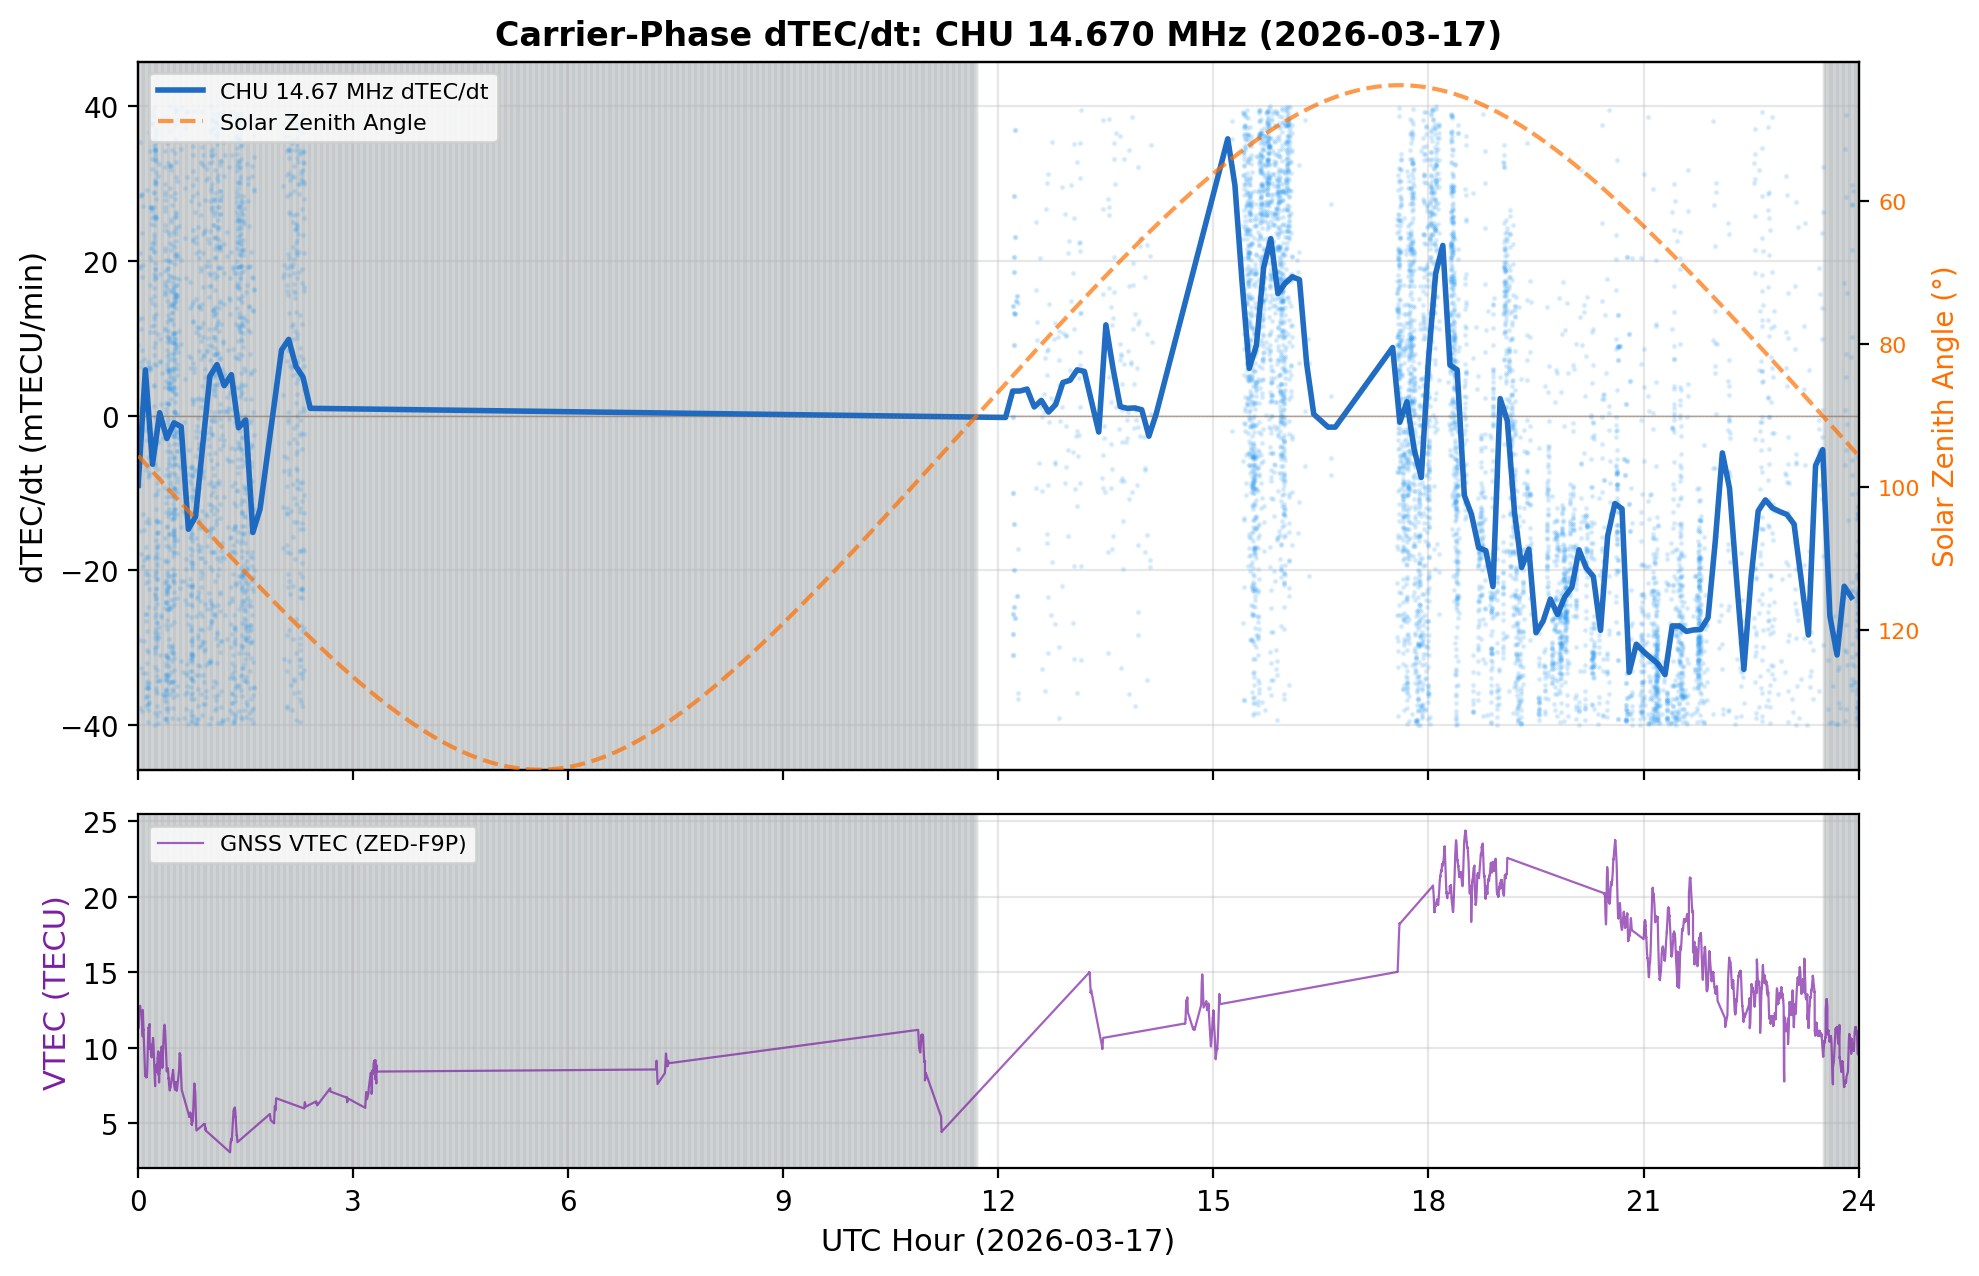
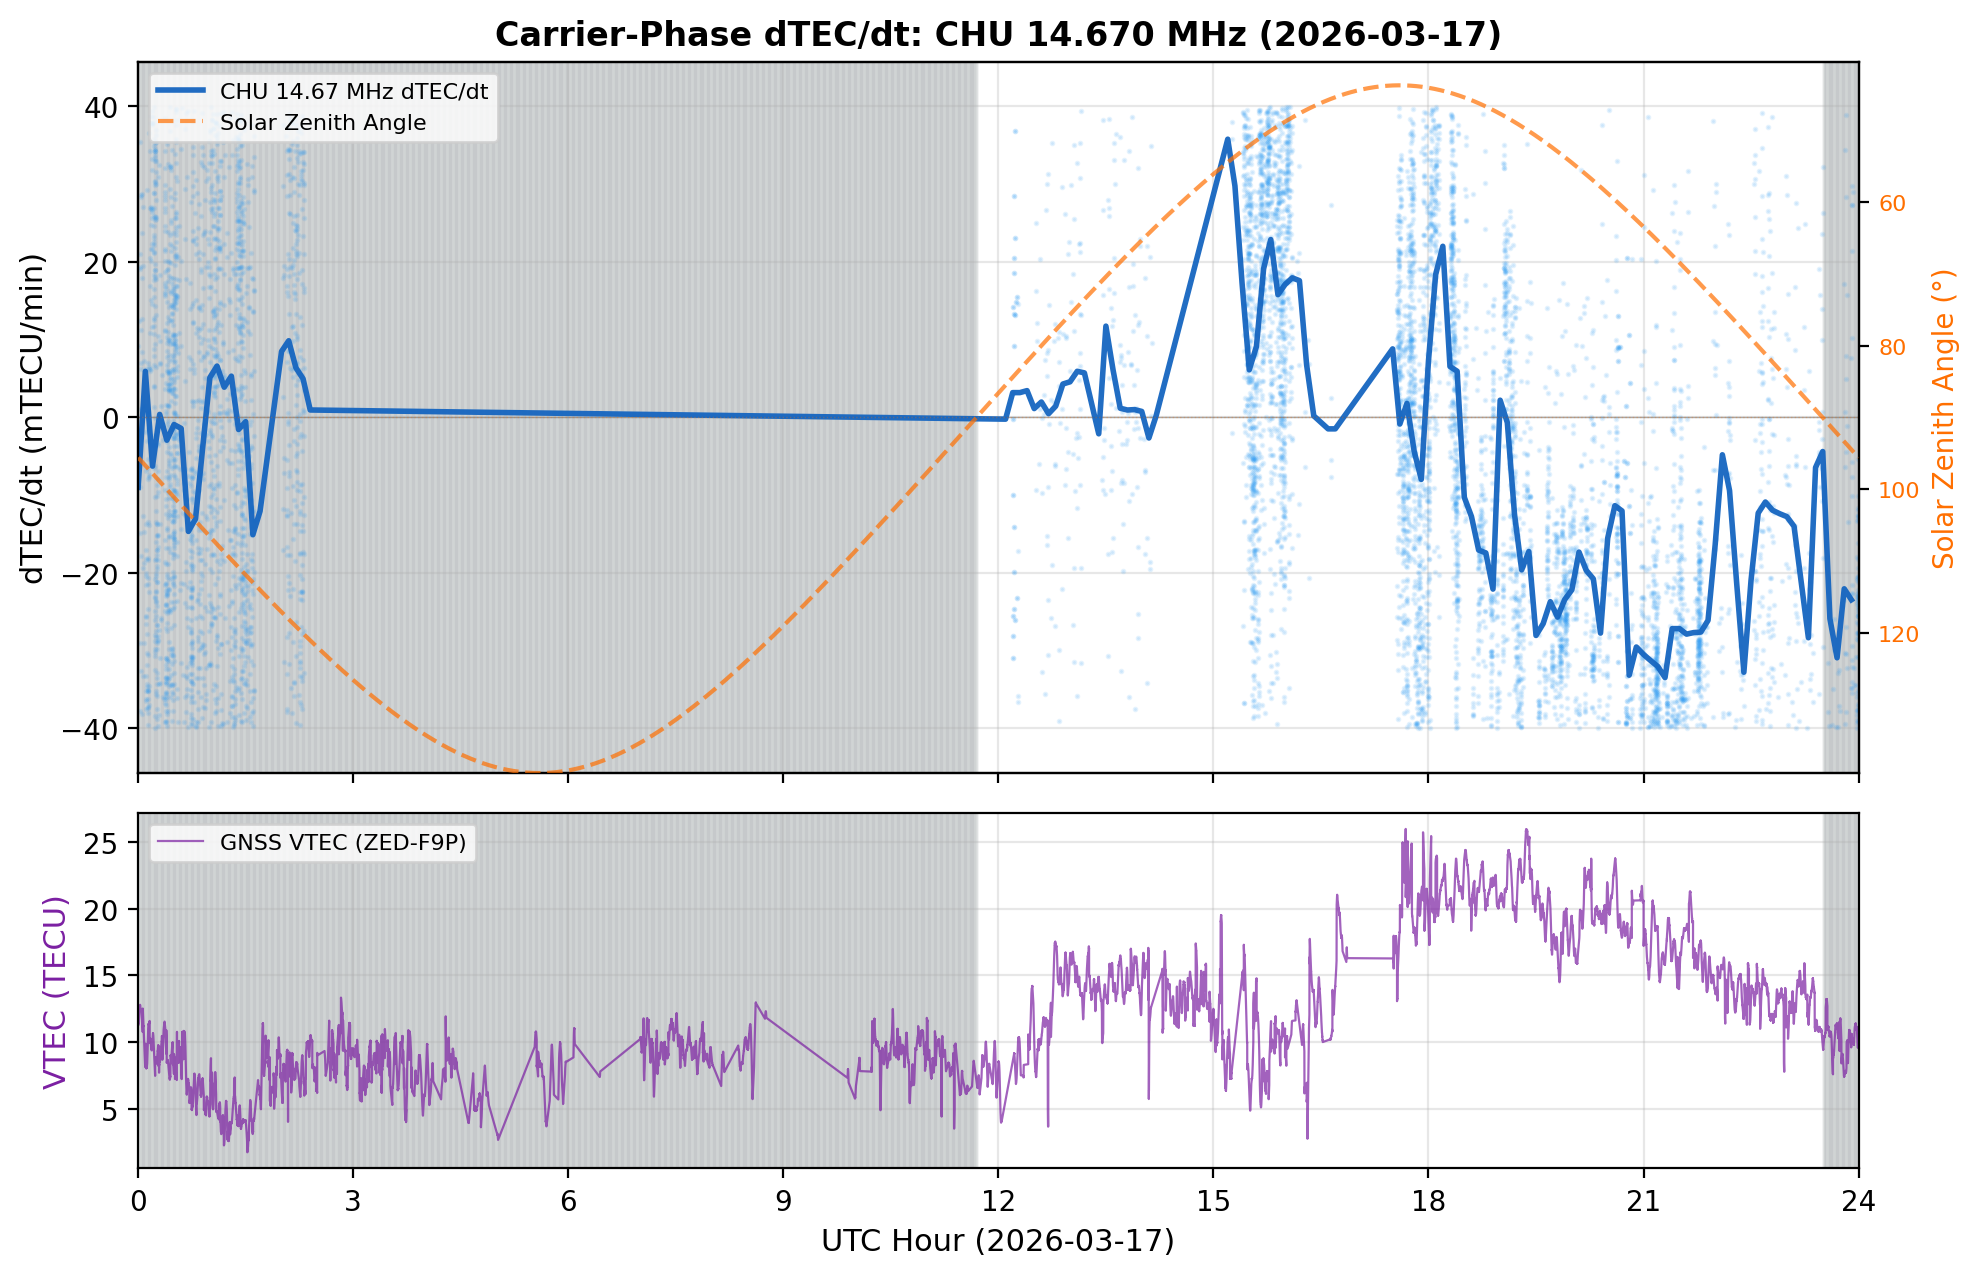
Fig 5: include MARGINAL GNSS VTEC (4-5 sats) to eliminate false gaps
GOOD-only filter (≥6 sats) rejected 75% of data, creating visual gaps
during hours with 3-5 visible satellites. MARGINAL agrees with GOOD to
within ~0.5 TECU where they overlap. Remaining minor gaps at 06/09 UTC
are BAD-only hours (1-3 sats).

diff --git a/docs/figures/generate_qex_figures.py b/docs/figures/generate_qex_figures.py
@@ -379,9 +379,9 @@ def generate_fig5():
         vtec_quality = np.array([q.decode() for q in f['quality_flag'][:]])
 
     vtec_hrs = (vtec_ts - midnight) / 3600.0
-    vtec_good = vtec_quality == 'GOOD'
+    vtec_usable = (vtec_quality == 'GOOD') | (vtec_quality == 'MARGINAL')
 
-    ax2.plot(vtec_hrs[vtec_good], vtec[vtec_good], color='#7B1FA2',
+    ax2.plot(vtec_hrs[vtec_usable], vtec[vtec_usable], color='#7B1FA2',
              linewidth=0.8, alpha=0.7, label='GNSS VTEC (ZED-F9P)')
     ax2.set_ylabel('VTEC (TECU)', fontsize=11, color='#7B1FA2')
     ax2.set_xlabel(f'UTC Hour ({date_label})', fontsize=11)